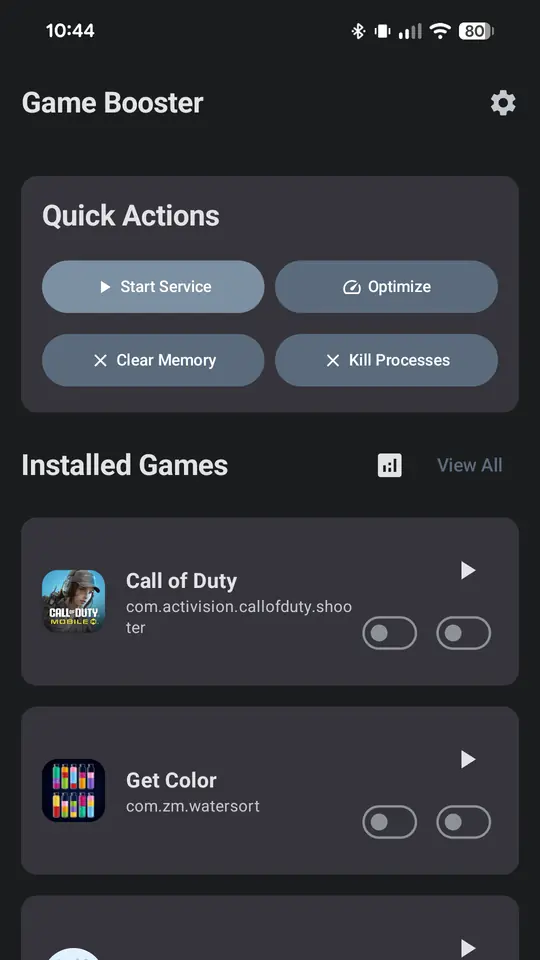
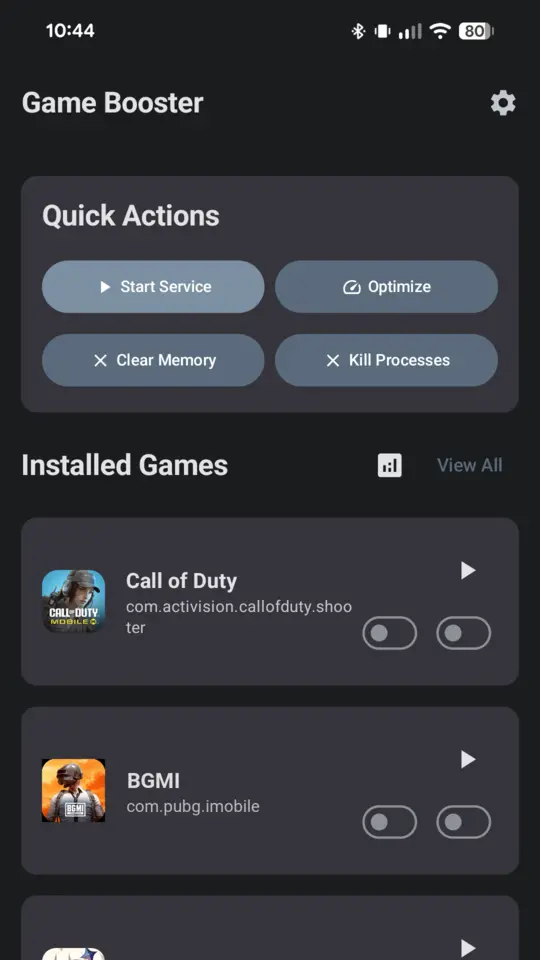
GameBooster screenshots: show popular games in the list
Swaps the example games below Call of Duty in the Quick actions and
Installed games screenshots for BGMI, Genshin Impact and Clash of Clans,
with their names, package ids and icons from Google Play.

Changed region(s): [[0.0593, 0.7812, 0.2074, 0.875], [0.237, 0.7812, 0.4741, 0.8438], [0.0889, 0.9688, 0.2074, 1.0]]

diff --git a/README.md b/README.md
@@ -36,7 +36,9 @@ any host without rewrite rules.
 - `habitstack/screenshots/*-{light,dark}.webp` come from the app's Roborazzi golden images in
   `indie-apps` (each module's `src/test/snapshots/`), cropped to 9:16 and resized to 540×960.
   The site uses the dark ones; the light ones are kept for a future light theme.
-- `gamebooster/screenshots/*.webp` are device screenshots, cropped and resized the same way.
+- `gamebooster/screenshots/*.webp` are device screenshots, cropped and resized the same way. In
+  `2.webp` and `3.webp` the example games below Call of Duty were swapped for BGMI, Genshin Impact
+  and Clash of Clans, using their names, package ids and icons from Google Play.
 - Keep every image small (WebP, 540 px wide).
 
 ## Adding an app
